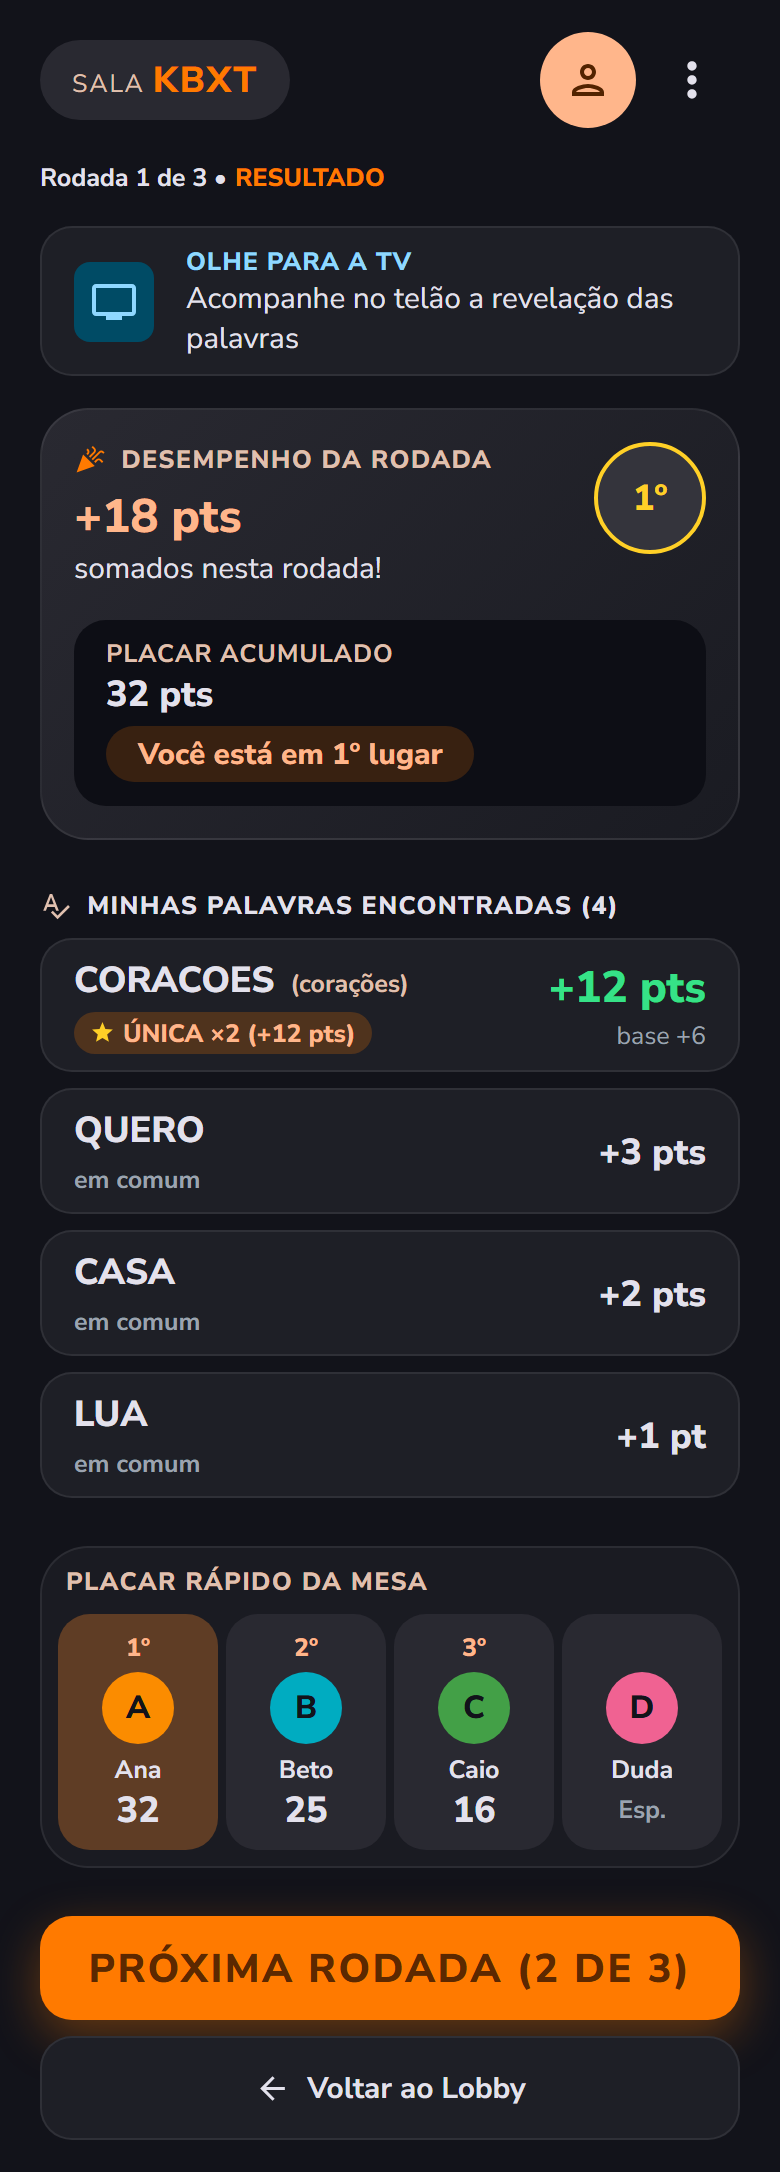
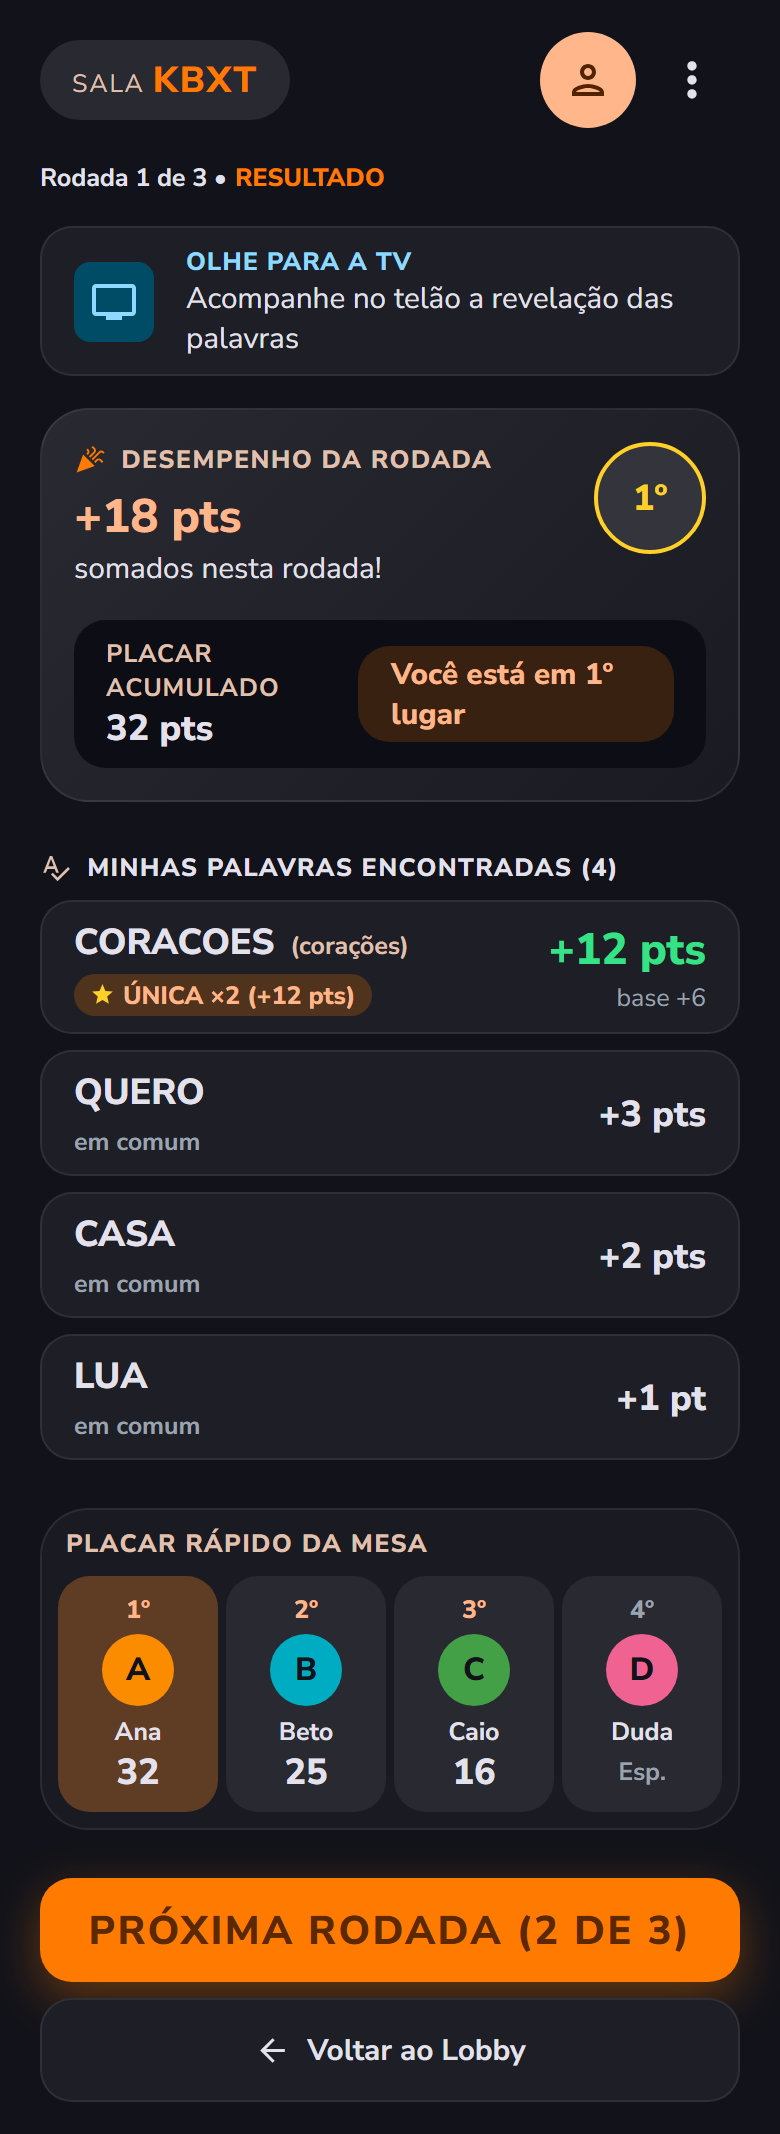
fix(phone): place pill beside the score and spectator place
In the round result the place pill sits beside 32 pts inside PLACAR
ACUMULADO, and the quick scoreboard gives each spectator the place after
the last player, as Duda's 4º in the capture (C70, RES-01 AC 6).

diff --git a/packages/phone/src/components/QuickScoreboard.tsx b/packages/phone/src/components/QuickScoreboard.tsx
@@ -13,7 +13,7 @@ export interface QuickScoreboardProps {
 
 /**
  * "PLACAR RÁPIDO DA MESA": one column per player with the place, the circle, the
- * nickname and the score; a spectator shows "Esp." without a place (RES-01 AC 6).
+ * nickname and the score; a spectator shows "Esp." in place of the score (RES-01 AC 6).
  * More players than the width holds scroll sideways inside the card, never the page.
  */
 export function QuickScoreboard({ rows, myId }: QuickScoreboardProps) {
@@ -22,11 +22,11 @@ export function QuickScoreboard({ rows, myId }: QuickScoreboardProps) {
       <h2 class="quick-scoreboard__title">{STRINGS.quickScoreboard}</h2>
       <ol class="quick-scoreboard__list">
         {rows.map((row) => (
-          <li key={row.id} class={`quick-scoreboard__item${row.id === myId ? ' quick-scoreboard__item--mine' : ''}`}>
-            <span class="quick-scoreboard__place">{row.place === null ? '' : STRINGS.ordinal(row.place)}</span>
+          <li key={row.id} class={itemClass(row, myId)}>
+            <span class="quick-scoreboard__place">{STRINGS.ordinal(row.place)}</span>
             <PlayerAvatar nickname={row.nickname} color={row.color} size="small" />
             <span class="quick-scoreboard__name">{row.nickname}</span>
-            {row.place === null ? (
+            {row.spectator ? (
               <span class="quick-scoreboard__spectator">{STRINGS.spectatorShort}</span>
             ) : (
               <span class="quick-scoreboard__score">{row.score}</span>
@@ -36,4 +36,11 @@ export function QuickScoreboard({ rows, myId }: QuickScoreboardProps) {
       </ol>
     </section>
   );
+}
+
+/** The column's class: highlighted for this phone, muted for a spectator. */
+function itemClass(row: ScoreRow, myId: string | null): string {
+  const mine = row.id === myId ? ' quick-scoreboard__item--mine' : '';
+  const spectator = row.spectator ? ' quick-scoreboard__item--spectator' : '';
+  return `quick-scoreboard__item${mine}${spectator}`;
 }

diff --git a/packages/phone/src/model/players.ts b/packages/phone/src/model/players.ts
@@ -22,8 +22,10 @@ export interface ScoreRow {
   nickname: string;
   color: string;
   score: number;
-  /** 1 for the top score, shared on a tie; null for a spectator, shown as "Esp.". */
-  place: number | null;
+  /** 1 for the top score, shared on a tie; a spectator's place follows the last player's. */
+  place: number;
+  /** Shown as "Esp." in place of the score. */
+  spectator: boolean;
 }
 
 /** A line of the "CLASSIFICAÇÃO DA MESA" (POD-01 AC 7). */
@@ -66,13 +68,24 @@ export function lobbyRows(players: readonly PlayerInfo[], hostId: string | null,
 
 /**
  * The quick scoreboard of the round result: highest score first, ties in joining
- * order sharing their place, spectators last without a place (RES-01 AC 6).
+ * order sharing their place, spectators last, each in the next place after the
+ * players, as Duda's "4º" in the capture (RES-01 AC 6, phone-round-result.jpg).
  */
 export function quickScoreboard(players: readonly PlayerInfo[]): ScoreRow[] {
   const playing = players.filter((p) => !p.spectator).sort((a, b) => b.score - a.score);
   const places = placesOf(playing.map((p) => p.score));
-  const rows: ScoreRow[] = playing.map((player, index) => ({ ...scoreFields(player), score: player.score, place: places[index]! }));
-  const spectators = players.filter((p) => p.spectator).map((player) => ({ ...scoreFields(player), score: player.score, place: null }));
+  const rows: ScoreRow[] = playing.map((player, index) => ({
+    ...scoreFields(player),
+    score: player.score,
+    place: places[index]!,
+    spectator: false,
+  }));
+  const spectators: ScoreRow[] = players.filter((p) => p.spectator).map((player, index) => ({
+    ...scoreFields(player),
+    score: player.score,
+    place: playing.length + 1 + index,
+    spectator: true,
+  }));
   return [...rows, ...spectators];
 }
 

diff --git a/packages/phone/e2e/results.spec.ts b/packages/phone/e2e/results.spec.ts
@@ -18,7 +18,7 @@ const sentTypes = (room: FakeRoom) => room.sent().map((msg) => msg.type);
 
 test('shows the round card, the words and the quick scoreboard', async ({ page }) => {
   // RES-01 AC 2-6: Ana's round 1 of 3: +18 pts, 32 in all, 1º; CORACOES only hers, CASA, QUERO and LUA in common;
-  // the quick scoreboard from Ana's 32 down, with Duda last as "Esp.".
+  // the quick scoreboard from Ana's 32 down, with Duda last in 4º as "Esp.".
   await openResults(page, ANA, ANA_FOUND);
 
   await expect(page.getByText(`${STRINGS.resultRound(1, 3)}${STRINGS.resultTag}`)).toBeVisible();
@@ -37,7 +37,7 @@ test('shows the round card, the words and the quick scoreboard', async ({ page }
   ]);
 
   const scoreboard = page.getByRole('region', { name: STRINGS.quickScoreboard }).getByRole('listitem');
-  await expect(scoreboard).toHaveText(['1ºAAna32', '2ºBBeto25', '3ºCCaio16', `DDuda${STRINGS.spectatorShort}`]);
+  await expect(scoreboard).toHaveText(['1ºAAna32', '2ºBBeto25', '3ºCCaio16', `4ºDDuda${STRINGS.spectatorShort}`]);
 });
 
 test('next round button names the round and the last one shows the podium', async ({ page }) => {

diff --git a/packages/phone/src/styles/round-score-card.css b/packages/phone/src/styles/round-score-card.css
@@ -64,9 +64,9 @@
   font-weight: var(--font-weight-black);
 }
 
+/* The place pill sits beside the score on one row; each side wraps its own text when narrow. */
 .round-score__total {
   display: flex;
-  flex-wrap: wrap;
   align-items: center;
   justify-content: space-between;
   margin-top: var(--space-md);
@@ -76,6 +76,8 @@
 }
 
 .round-score__total-label {
+  flex: 0 1 auto;
+  min-width: 0;
   margin: 0 var(--space-sm) 0 0;
   color: var(--color-on-surface-variant);
   font-size: var(--font-size-small);
@@ -92,9 +94,11 @@
 }
 
 .round-score__place {
+  flex: 0 1 auto;
+  min-width: 0;
   margin: var(--space-xs) 0;
   padding: var(--space-xs) var(--space-md);
-  border-radius: var(--radius-full);
+  border-radius: var(--radius-lg);
   background: color-mix(in srgb, var(--color-action) 18%, transparent);
   color: var(--color-primary);
   font-size: var(--font-size-body);

diff --git a/packages/phone/src/model/players.test.ts b/packages/phone/src/model/players.test.ts
@@ -61,15 +61,18 @@ describe('quickScoreboard', () => {
       player('p4', 'Duda', { spectator: true }),
       player('p2', 'Beto', { score: 20 }),
       player('p3', 'Caio', { score: 5 }),
+      player('p5', 'Edu', { spectator: true }),
     ];
 
     const rows = quickScoreboard(players);
 
-    expect(rows.map((row) => [row.nickname, row.score, row.place])).toEqual([
-      ['Beto', 20, 1],
-      ['Ana', 12, 2],
-      ['Caio', 5, 3],
-      ['Duda', 0, null],
+    // Each spectator takes the next place after the players: Duda 4º, as in phone-round-result.jpg.
+    expect(rows.map((row) => [row.nickname, row.score, row.place, row.spectator])).toEqual([
+      ['Beto', 20, 1, false],
+      ['Ana', 12, 2, false],
+      ['Caio', 5, 3, false],
+      ['Duda', 0, 4, true],
+      ['Edu', 0, 5, true],
     ]);
   });
 

diff --git a/packages/phone/src/styles/quick-scoreboard.css b/packages/phone/src/styles/quick-scoreboard.css
@@ -51,6 +51,10 @@
   font-weight: var(--font-weight-black);
 }
 
+.quick-scoreboard__item--spectator .quick-scoreboard__place {
+  color: var(--color-text-muted);
+}
+
 .quick-scoreboard__item .player-avatar {
   width: 36px;
   height: 36px;

diff --git a/.specs/features/m3-phone/tasks.md b/.specs/features/m3-phone/tasks.md
@@ -1279,7 +1279,7 @@ Proof: browser captures/phone-spectator.running.png
 **C69** - O espectador vê o timer com a barra e "JOGADORES NA SALA" sem contagem de palavras (SPEC-01, AC 2)
 Proof: `npx playwright test -c packages/phone/playwright.config.ts packages/phone/e2e/spectator.spec.ts -g "shows the timer and the players without word counts"`
 
-**C70** - O "PLACAR RÁPIDO DA MESA" vai do maior para o menor placar, com espectadores por último e "Esp." (RES-01, AC 6)
+**C70** - O "PLACAR RÁPIDO DA MESA" vai do maior para o menor placar, com espectadores por último, cada um na posição seguinte à do último jogador ("4º" da Duda), e "Esp." (RES-01, AC 6)
 Proof: `npx vitest run packages/phone/src/model/players.test.ts -t "orders the quick scoreboard and puts spectators last"`
 
 **C70a** - O anfitrião vê o resultado de `phone-round-result.jpg` (RES-01, AC 1)
